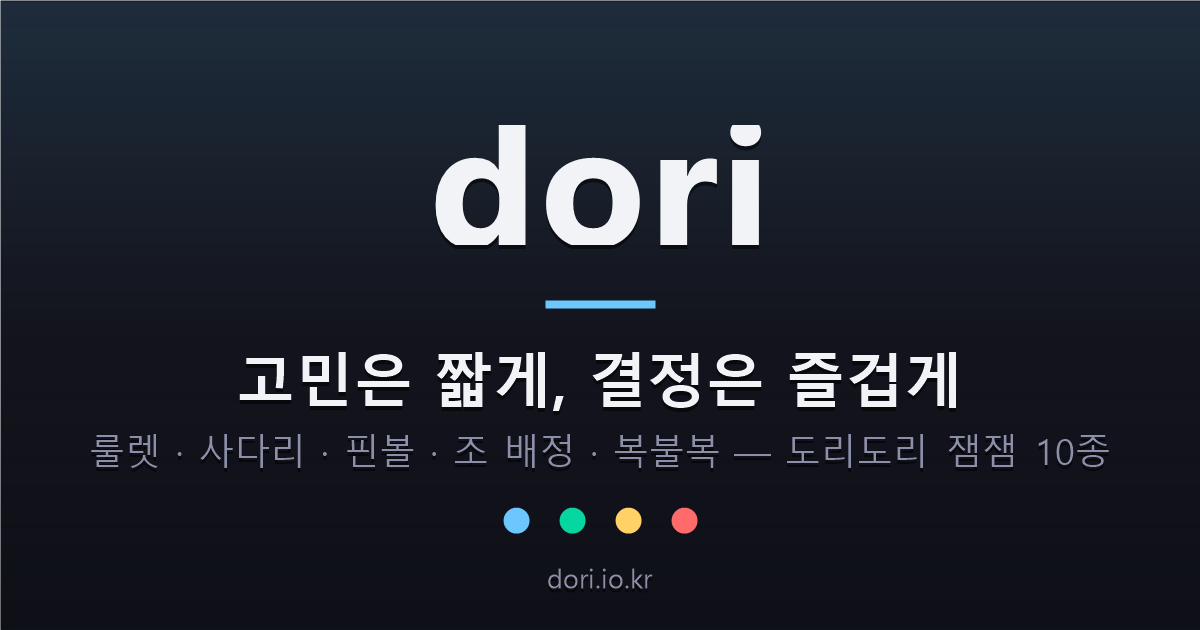
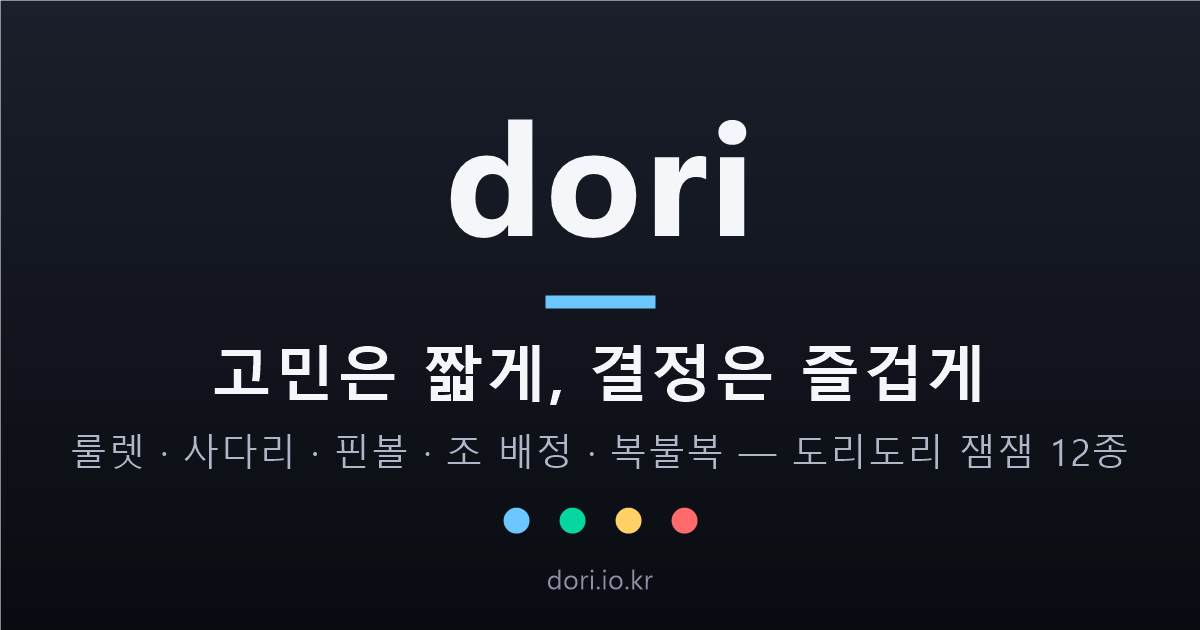
chore: v0.10.0 릴리스 — CHANGELOG 정리, og 이미지 잼잼 12종 갱신

diff --git a/CHANGELOG.md b/CHANGELOG.md
@@ -1,5 +1,37 @@
 # Changelog
 
+## v0.10.0 — 2026-08-01
+
+### 🔢 빙고가 왔다 — 잼잼 12종
+
+- **빙고 뽑기** — 빙고 진행용 숫자 콜. 기본 1–75, 최대 숫자는 10–99로 조절. 나온 숫자는 판에 그대로 남아 언제든 확인.
+- **빙고판** — 참가자용 5×5 카드. 불린 숫자를 탭해 표시하면 줄은 저절로 판정되고, 가운데 자유칸도 표준대로.
+- **뽑기 겸하기(사회자 모드)** — 이 폰 하나로 콜과 카드까지. 비복원 뽑기·자동 표시·전체 콜 확인 팝업.
+- 진행 중인 판은 기기에 저장 — 화면을 닫아도 이어서 한다.
+
+### 📱 어떤 브라우저에서 열어도
+
+- **복사가 어디서나 된다** — 카카오톡·네이버 등 앱 속 브라우저에서 주소·조 편성·로또 번호 복사가 조용히 실패하던 문제를 고쳤다. 정말 막힌 환경에서는 이유를 정직하게 알려준다.
+- **iPhone·iPad에서 길게 눌러 붙여넣기**가 된다 — 조 배정 명단 붙여넣기 동선 복구.
+- **iPad 바로가기 안내가 올바른 길을 알려준다** — 공유 버튼 → '홈 화면에 추가'. 앱 속 브라우저에서는 '다른 브라우저로 열기'를 안내한다.
+- 더블탭이 조작인 화면에서 화면 확대(줌)와 겹치지 않게 손질했다.
+
+### 🛡 판이 더 단단해졌다
+
+- 룰렛: 확정 연출 사이에 메뉴를 고치면 결과가 멈출 수 있던 드문 경로를 봉쇄.
+- 조 배정: 명단을 줄인 뒤 '조 짜기'가 계속 거절되던 고착을 해소 — 경고 문구도 잠시 후 제자리로 돌아온다. 명단 붙여넣기 창은 뒤 화면을 잠그고, 바깥 탭 = 취소.
+- 로또: 복사·공유가 화면에 보이는 줄만 담고, 확률 안내 문구가 지워지지 않는다.
+- 빙고: 열자마자 누른 '새 판'이 진행 중인 판을 지울 수 있던 틈을 막았다.
+- 악어 이빨은 새 판 위로 입이 다시 닫히던 잔상을, 단청은 자판이 열린 채 '묻기'가 먹히지 않던 문제를 고쳤다.
+
+### 📋 알림·문서
+
+- 개인정보처리방침에 빙고 저장 항목을 고지하고 시행일을 갱신했다.
+- 소개·사용 안내 페이지 링크의 탭 영역을 손가락 크기에 맞게 키웠다.
+- 링크 공유 미리보기 이미지가 잼잼 12종을 알린다.
+
+---
+
 ## v0.9.3 — 2026-07-29
 
 ### 🧭 뒤로가기가 눈치 있게
